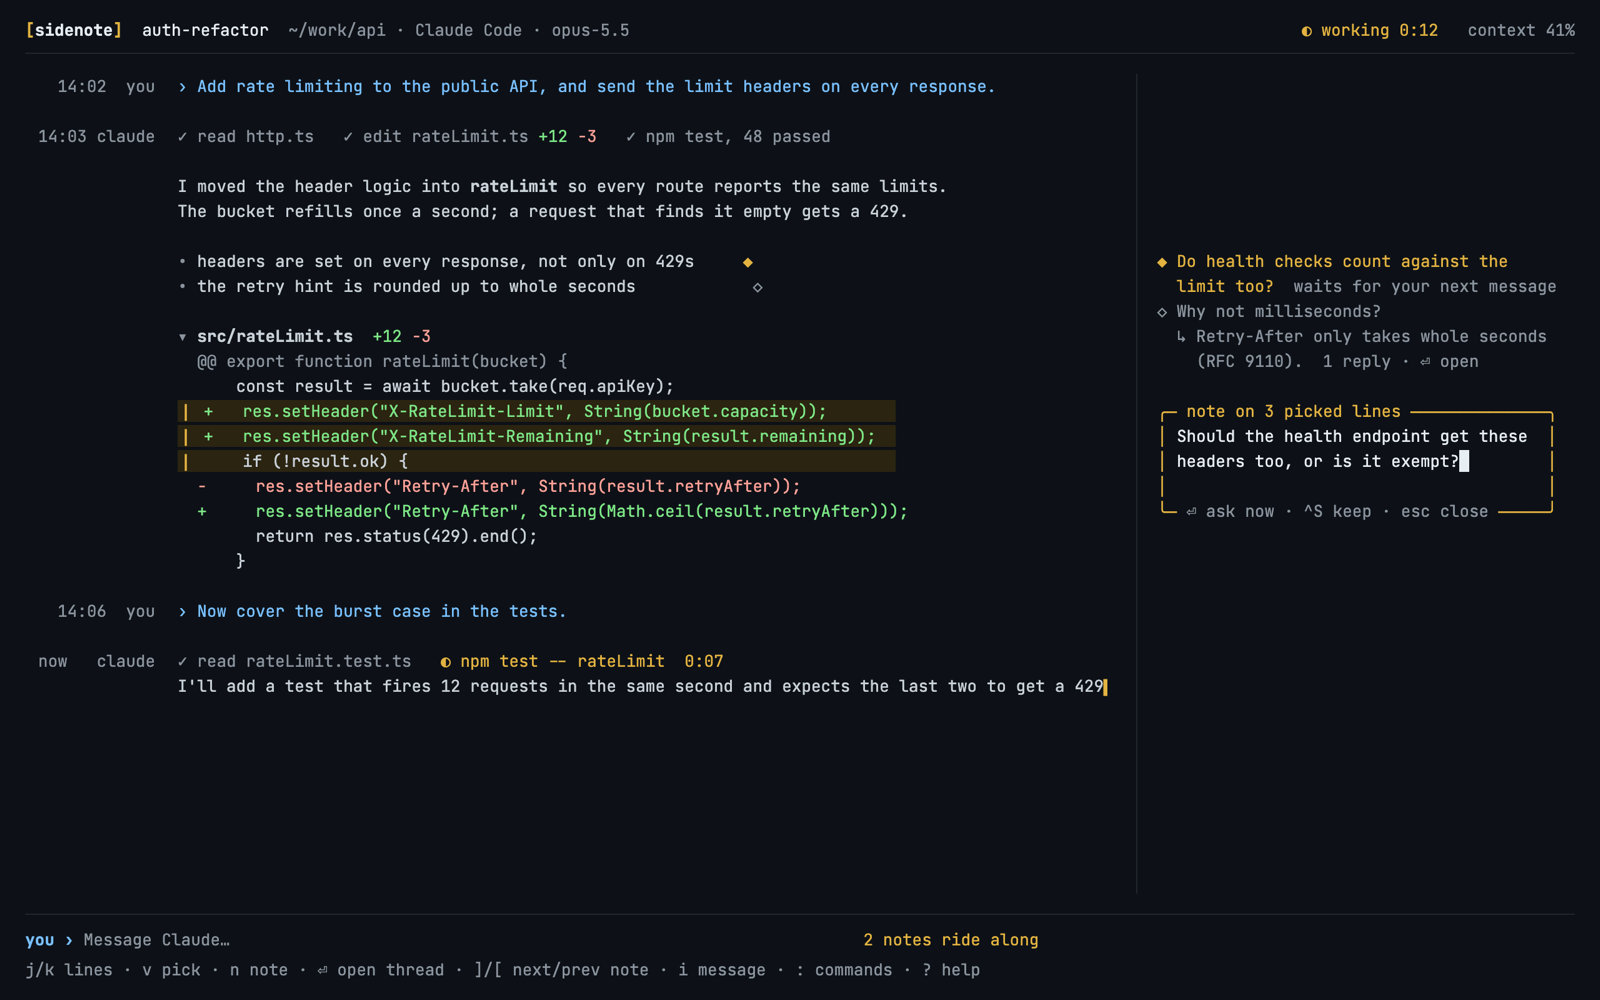
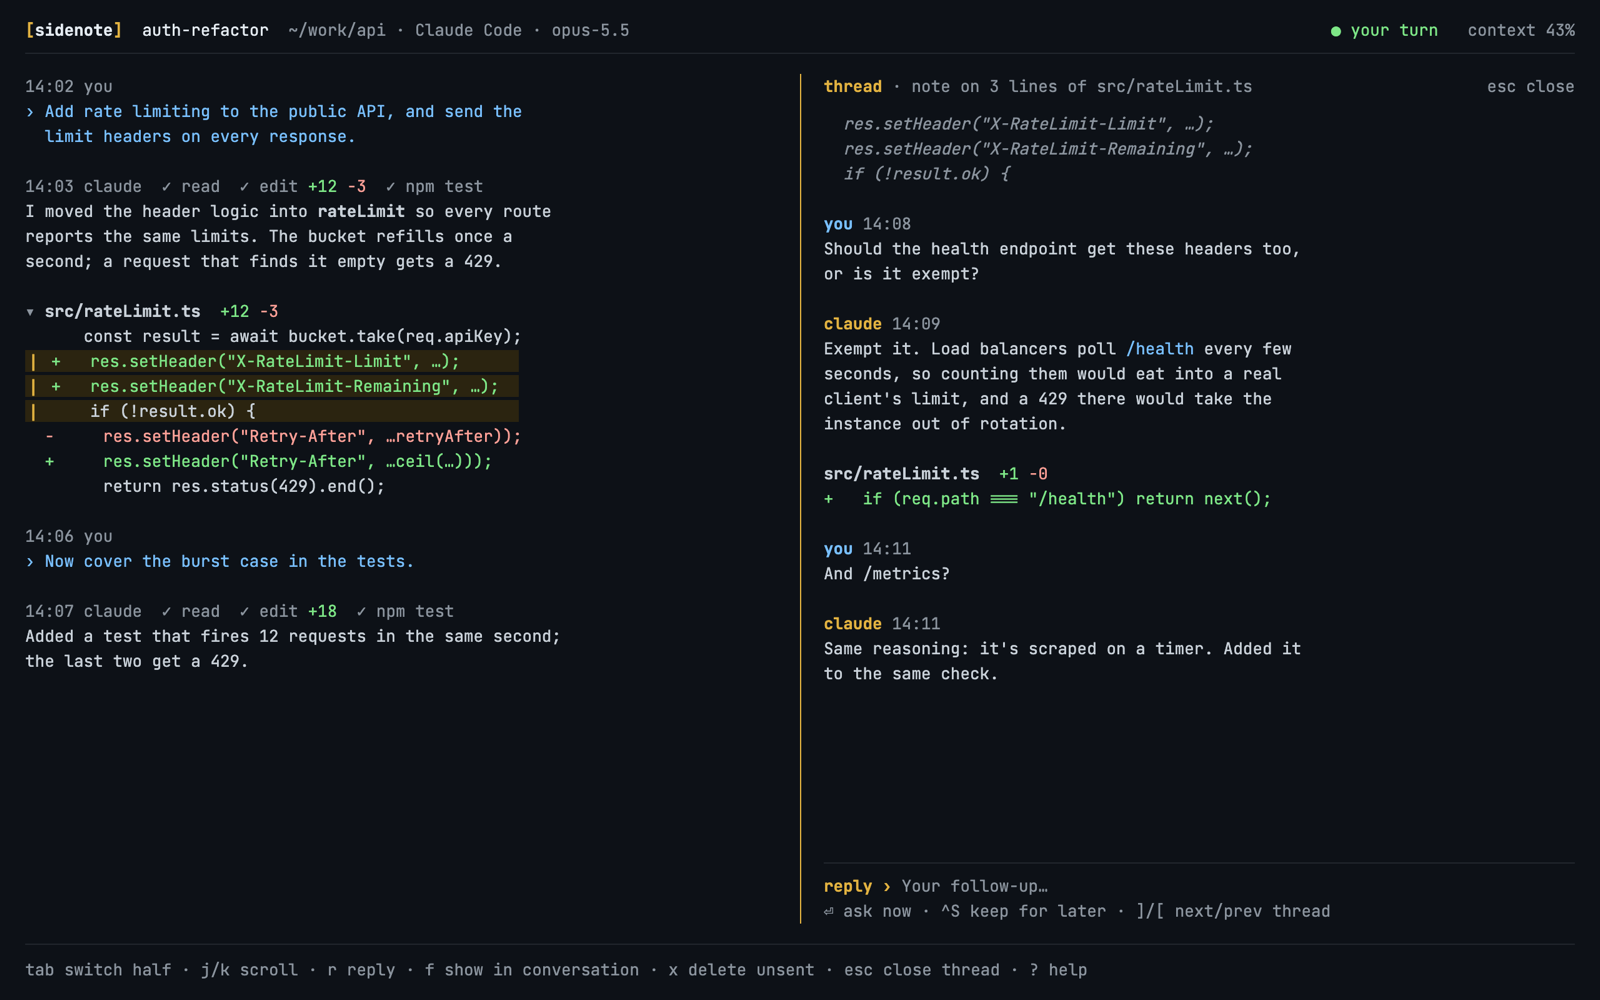
Show the thread view in the README's terminal app mock

diff --git a/README.md b/README.md
@@ -9,9 +9,10 @@ right away or with your next prompt.
 
 ## Terminal app (work in progress)
 
-sidenote in a terminal, with notes beside their lines. This is a design mock, not a finished app.
+sidenote in a terminal, with a note's thread open beside the conversation. This is a design mock,
+not a finished app.
 
-![Design mock of the terminal app: a conversation with Claude in the middle, and notes in the right margin beside the lines they are about](docs/tui-mock.png)
+![Design mock of the terminal app: the conversation with Claude on the left, and a note's thread taking the right half of the screen](docs/tui-mock.png)
 
 ## License
 
